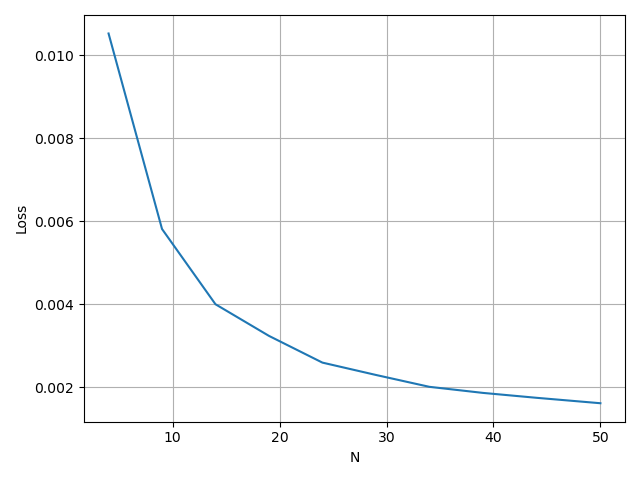
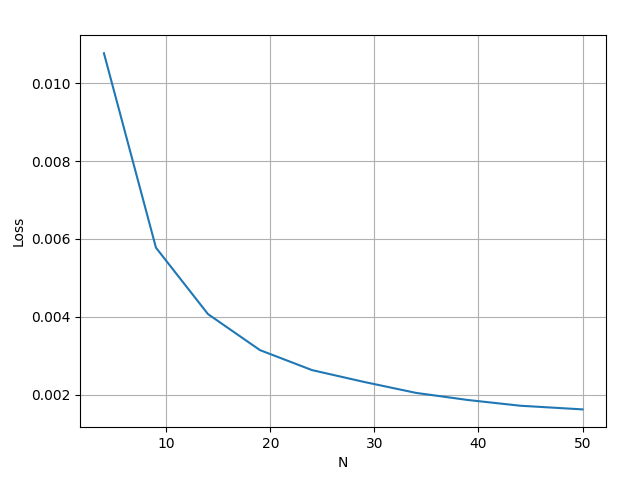
Simulations for CRV modified

diff --git a/example_crv/5_simulate_T.py b/example_crv/5_simulate_T.py
@@ -5,10 +5,10 @@ from libsimulate import scan_param, plot_losses
 if __name__ == '__main__':
     results = scan_param(
         'data/crvusdt-1m.json.gz',
-        A=[int(a) for a in logspace(log10(10), log10(300), 20)],
+        A=50,
         range_size=4,
         fee=0.006,
-        Texp=600
+        Texp=[int(a) for a in logspace(log10(300), log10(40000), 20)]
     )
 
-    plot_losses('A', results)
+    plot_losses('Texp', results)

diff --git a/example_crv/4_simulate_avg_loss_brief.py b/example_crv/4_simulate_avg_loss_brief.py
@@ -7,7 +7,7 @@ if __name__ == '__main__':
         'data/crvusdt-1m-brief.json.gz',
         A=50,
         range_size=[int(x) for x in linspace(4, 50, 10)],
-        fee=0.009,
+        fee=0.006,
         Texp=600,
         samples=20000, n_top_samples=20000,
         min_loan_duration=1, max_loan_duration=1

diff --git a/example_crv/3_simulate_avg_loss.py b/example_crv/3_simulate_avg_loss.py
@@ -7,7 +7,7 @@ if __name__ == '__main__':
         'data/crvusdt-1m.json.gz',
         A=50,
         range_size=[int(x) for x in linspace(4, 50, 10)],
-        fee=0.009,
+        fee=0.006,
         Texp=600,
         samples=20000, n_top_samples=20000,
         min_loan_duration=1, max_loan_duration=1
